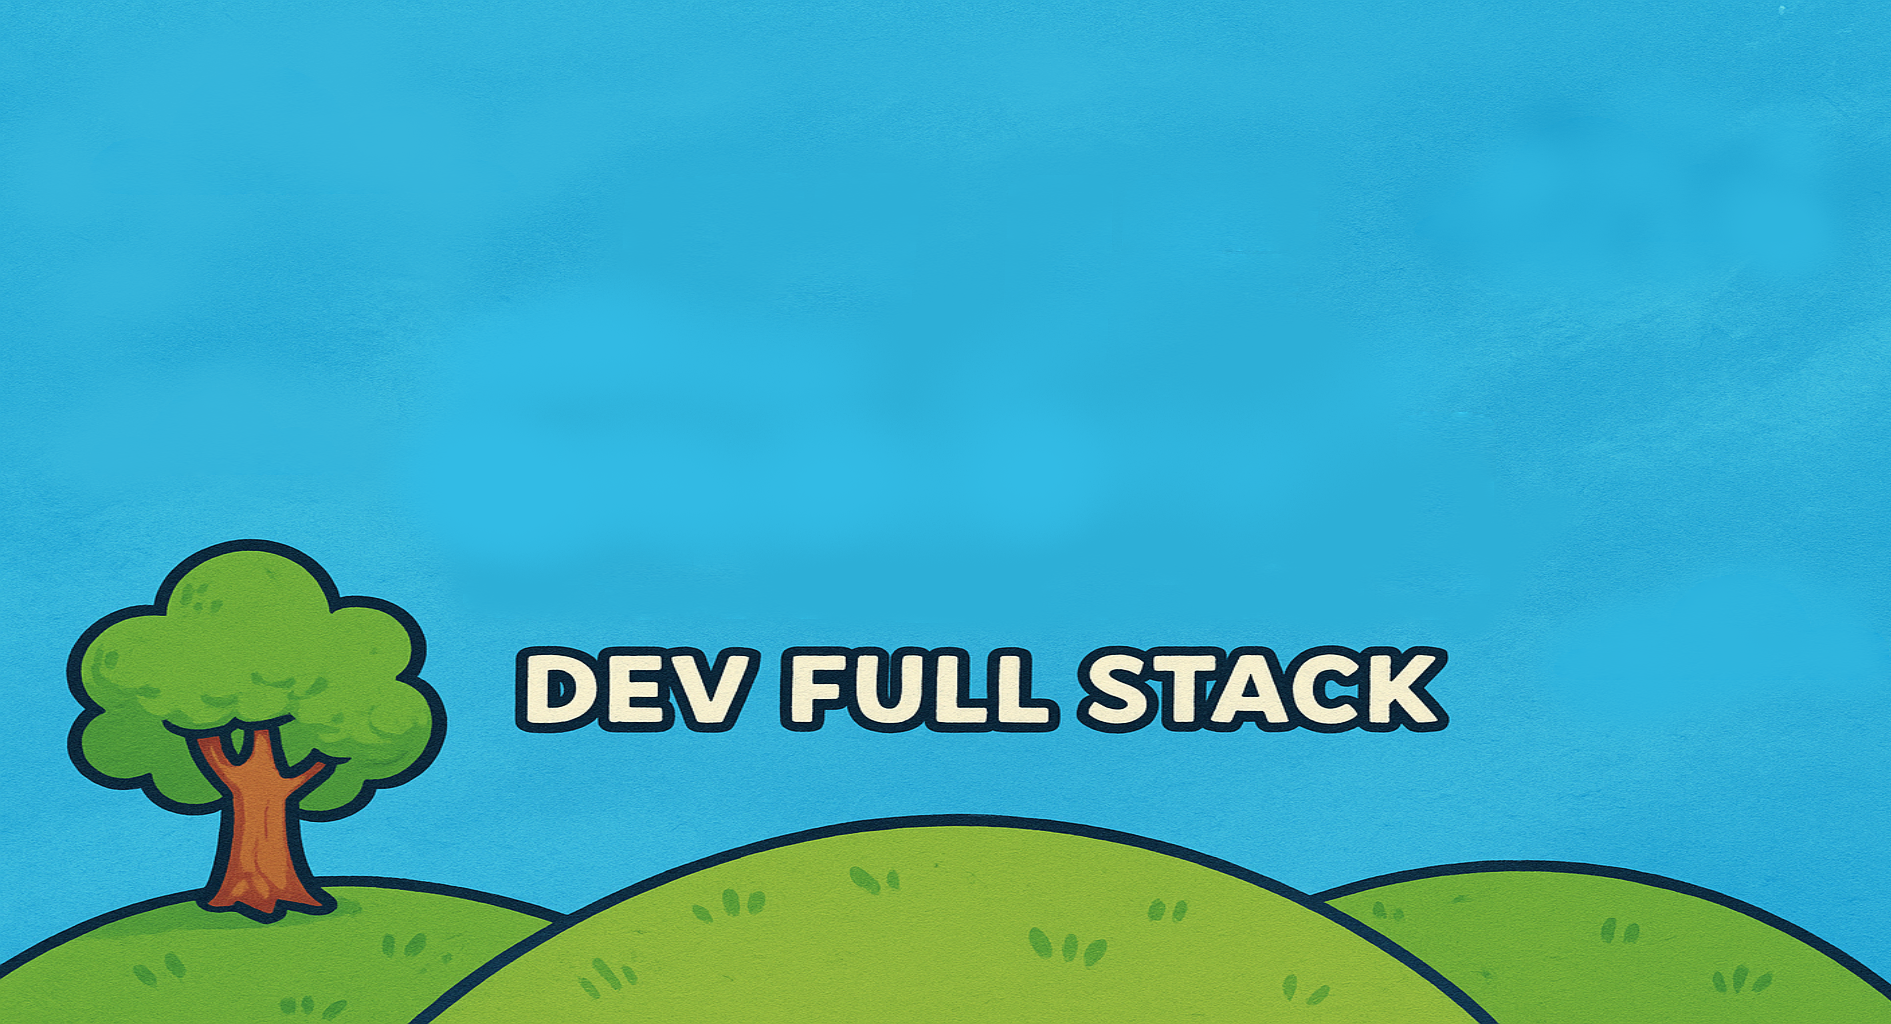
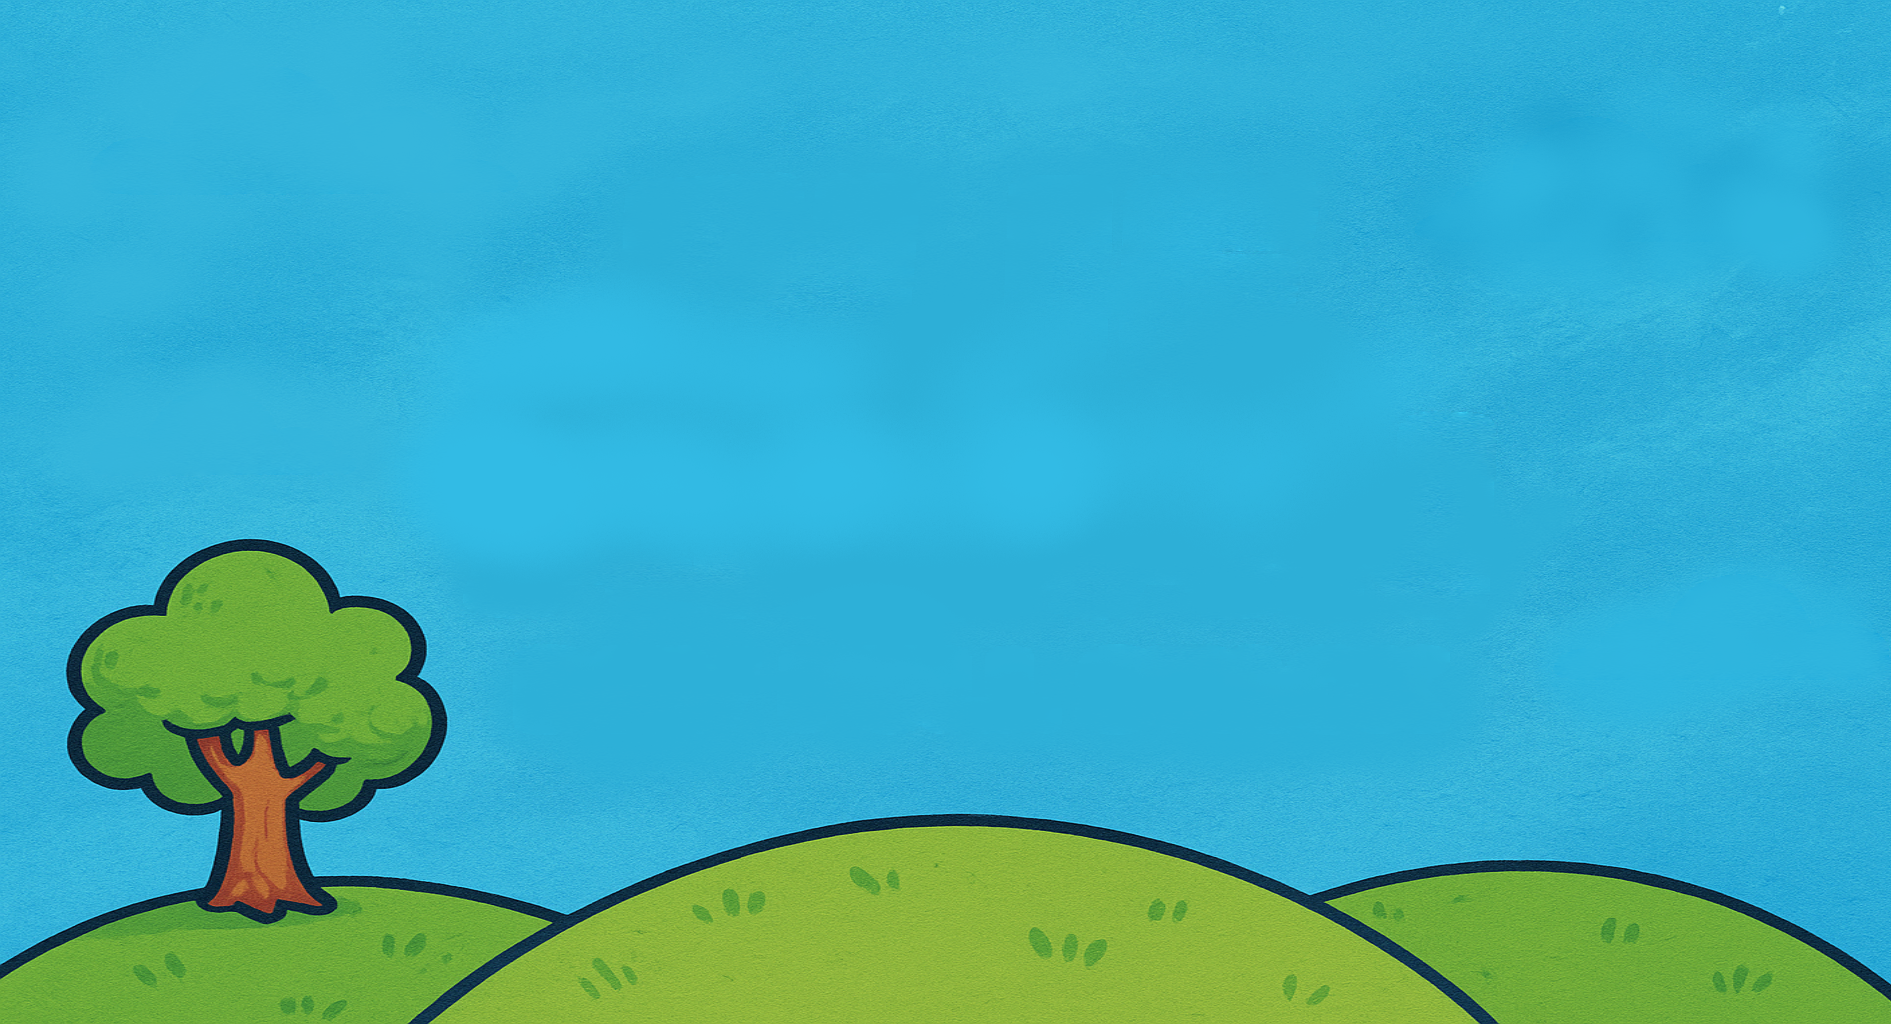
ajout de la page moi

Changed region(s): [[0.2496, 0.625, 0.78, 0.7188]]

diff --git a/moi.css b/moi.css
@@ -1,11 +1,84 @@
 body {
     background-image: url("fond.png");
-    background-size: cover;
     background-repeat: no-repeat;
-    overflow-x: hidden; /* empêche le défilement horizontal */
+    background-position: center center;
+    background-size: 100%; /* point de départ de l'animation */
+    background-attachment: fixed;
+    overflow-x: hidden;
     margin: 0;
-    animation: zoom 1s ease 0s 1 normal forwards;
+    animation: zoom 2s ease forwards;
 }
+p1{
+    position: absolute;
+    top: 6%;
+    left: 2%;
+    background-color: rgba(255, 255, 255, 0.8);
+    padding: 10px;
+    border-radius: 10px;
+    font-family: 'Arial', sans-serif;
+    font-size: 36px;
+    color: #333;
+    animation: opacityUp 2s ease forwards;
+}
+
+div.about-me img{
+    z-index: -1;
+    transform: translate(-50%, -50%);
+    position: absolute;
+    top: 40%;
+    left: 13%;
+    width: 180px;
+    height: 260px;
+    border-radius: 20%;
+    border:5px solid #462908;
+    animation: opacityUp 2s ease forwards;
+    
+}
+div.bio {
+    position: absolute;
+    top: 49%;
+    left: 60%;
+    width: 60%;
+    background-color: rgba(255, 255, 255, 0.8);
+    padding: 20px;
+    border-radius: 10px;
+    font-family: 'Arial', sans-serif;
+    font-size: 22px;
+    color: #333;
+    box-shadow: 0 4px 8px rgba(0, 0, 0, 0.1);
+    animation: opacityUp 2s ease forwards;
+}
+div.premier img {
+    
+    position: absolute;
+    top: 6%;
+    left: 75%;
+    height: 120px;
+    width: 280px;
+    transition: transform 0.4s ease;
+
+}
+div.premier p {
+    position: absolute;
+    top: -6%;
+    left: 80%;
+    transform: rotate(10deg);
+    transition: transform 0.7s ease;
+    font-size: 40px;
+    font-family: Arial, sans-serif;
+    font-weight: bold;
+}
+div.premier:hover {
+    img {
+    transform-origin: center center;
+    transform: scale(1.1) rotate(5deg);
+    }
+    p {
+        transform-origin: 80px 350px;
+        transform: rotate(-5deg);
+    }
+}
+
 @keyframes zoom {
 	0% {
 		background-position: center bottom;
@@ -13,7 +86,17 @@ body {
 	}
 
 	100% {
-		background-position: center bottom;
-		background-size: 350%;
+		background-position: left bottom;
+		background-size: 250%;
 	}
+}
+@keyframes opacityUp {
+    0% {
+        transform: translate(-50%, -50%) translatex(-4000px);
+        opacity: 0;
+    }
+    100% {
+        transform: translate(-50%, -50%) translatex(0);
+        opacity: 1;
+    }
 }

diff --git a/moi.html b/moi.html
@@ -7,6 +7,18 @@
         <meta name="viewport" content="width=device-width, initial-scale=1.0">
     </head>
     <body>
-        
+        <p1>À propos de moi</p1>
+        <div class="about-me">
+            <img src="photo_alban.jpg" alt="Elie Alban" title="Elie Alban" loading="lazy" width="200px"/>
+        </div>
+            <div class="bio">
+                <h2>Biographie</h2>
+                <p>Bonjour! Je m'appelle Elie Alban, un passionné de développement web et de programmation. Depuis mon plus jeune âge, j'ai été fasciné par la technologie et la manière dont elle peut transformer des idées en réalité. J'ai commencé à coder à l'âge de 10 ans et depuis, j'ai acquis une solide expérience en Python, JavaScript, HTML et CSS.</p>
+                <p>En plus de mes compétences techniques, j'aime relever des défis et apprendre de nouvelles technologies. Mon objectif est de devenir un développeur full-stack compétent et de contribuer à des projets innovants qui ont un impact positif sur la société.</p>
+            </div>
+        <div class ="premier">
+            <p>sorti</p>
+            <a href="file:///C:/Users/drago/OneDrive/Documents/CODA/global/projet/prtfolio_2/index.html"><img src="nuage1.png"></a>
+        </div>
     </body>
 </html>

diff --git a/page2.css b/page2.css
@@ -6,8 +6,8 @@ body {
     overflow-x: hidden; /* empêche le défilement horizontal */
     margin: 0;
     animation: myAnim 1s ease 0s 1 normal forwards;
-
-img{
+}
+div.ima img{
     z-index: -1;
     transform: translate(-48%, -50%);
     position: absolute;
@@ -15,16 +15,44 @@ img{
     left: 50%;
     height: 320px;
     width: 720px;
-    
-}
-}
-img{
     animation: riseUp 1s ease forwards;
-    
 }
-h1, section {
+
+h1, section{
     animation: riseUp2 1s ease forwards;
 }
+
+div.premier img {
+    position: absolute;
+    top: 6%;
+    left: 75%;
+    height: 120px;
+    width: 280px;
+    transition: transform 0.4s ease;
+    
+}
+
+div.premier p {
+    position: absolute;
+    top: -6%;
+    left: 82%;
+    transform: rotate(10deg);
+    transition: transform 0.7s ease;
+    font-size: 40px;
+    font-family: Arial, sans-serif;
+    font-weight: bold;
+}
+div.premier:hover img {
+    transform-origin: center center;
+    transform: scale(1.1) rotate(5deg);
+}
+
+div.premier:hover p {
+    transform-origin: 80px 350px;
+    transform: rotate(-5deg);
+}
+
+
 h1 {
     
     z-index: 2;

diff --git a/page2.html b/page2.html
@@ -7,11 +7,15 @@
         <link href="page2.css" rel="stylesheet">
     </head>
     <body>
+        <div class="ima">
         <img src="nuage1.png" alt="elie alban" title="elie alban" loading="lazy"  />
-        
+        </div>
         <h1>Compétences techniques</h1>
             
-        
+        <div class="premier">
+            <p>retour</p>
+            <a href="file:///C:/Users/drago/OneDrive/Documents/CODA/global/projet/prtfolio_2/index.html"><img src="nuage1.png"></a>
+        </div>
         <section>
             
             <div class="skills-container">
@@ -34,6 +38,7 @@
                 <h2>Connaissances en C</h2>
                 <p>Notions fondamentales du langage C, y compris la gestion de la mémoire et la programmation système.</p>
             </div>
+            
         </section>
         
     </body>

diff --git a/index.html b/index.html
@@ -28,5 +28,9 @@
             <p>autre</p>
             <a href="file:///C:/Users/drago/OneDrive/Documents/CODA/global/projet/prtfolio_2/index.html"><img src="nuage4.png"></a>
         </div>
+        <div class ="dev">
+            <img src="devfullstack.png" alt="development" title="development" loading="lazy" width="100%"/>
+        </div>
+
     </body>
 </html>

diff --git a/index.css b/index.css
@@ -17,7 +17,15 @@ div.premier img {
     width: 280px;
     transition: transform 0.4s ease;
 }
+div.dev img {
+    position: absolute;
+    top: 73%;
+    left: 50%;
+    height: 77px;
+    width: 660px;
+    transform: translate(-46%, -50%);
 
+}
 div.premier p {
     position: absolute;
     top: 4%;
